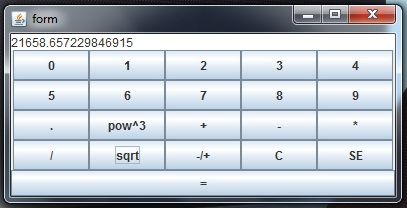
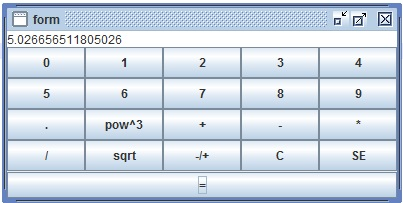
setDefaultLookAndFeelDecorated(true)

diff --git a/Form.java b/Form.java
@@ -8,9 +8,9 @@ import javax.swing.JPanel;
 import javax.swing.JTextArea;
 public class Form extends JFrame {
    /**
-	 * @author rodomod 03.03.2019
+	 * @author rodomod 24.02.2020
 	 */
-	private static final long serialVersionUID = 3862587980478740857L;
+
 	JTextArea display = new JTextArea();
     JPanel buttonPanel = new JPanel(new GridLayout(4, 20));
     JButton button0 = new JButton("0");
@@ -204,9 +204,8 @@ buttonStart.addActionListener(new ActionListener() {
         buttonPanel.add(buttonSE);
         setVisible(true);
     }
- public static void main(String[] args)  { 
+ public static void main(String[] args)  {
+	 JFrame.setDefaultLookAndFeelDecorated(true);
 	 new Form(); 
 	 }
 }
-
-
